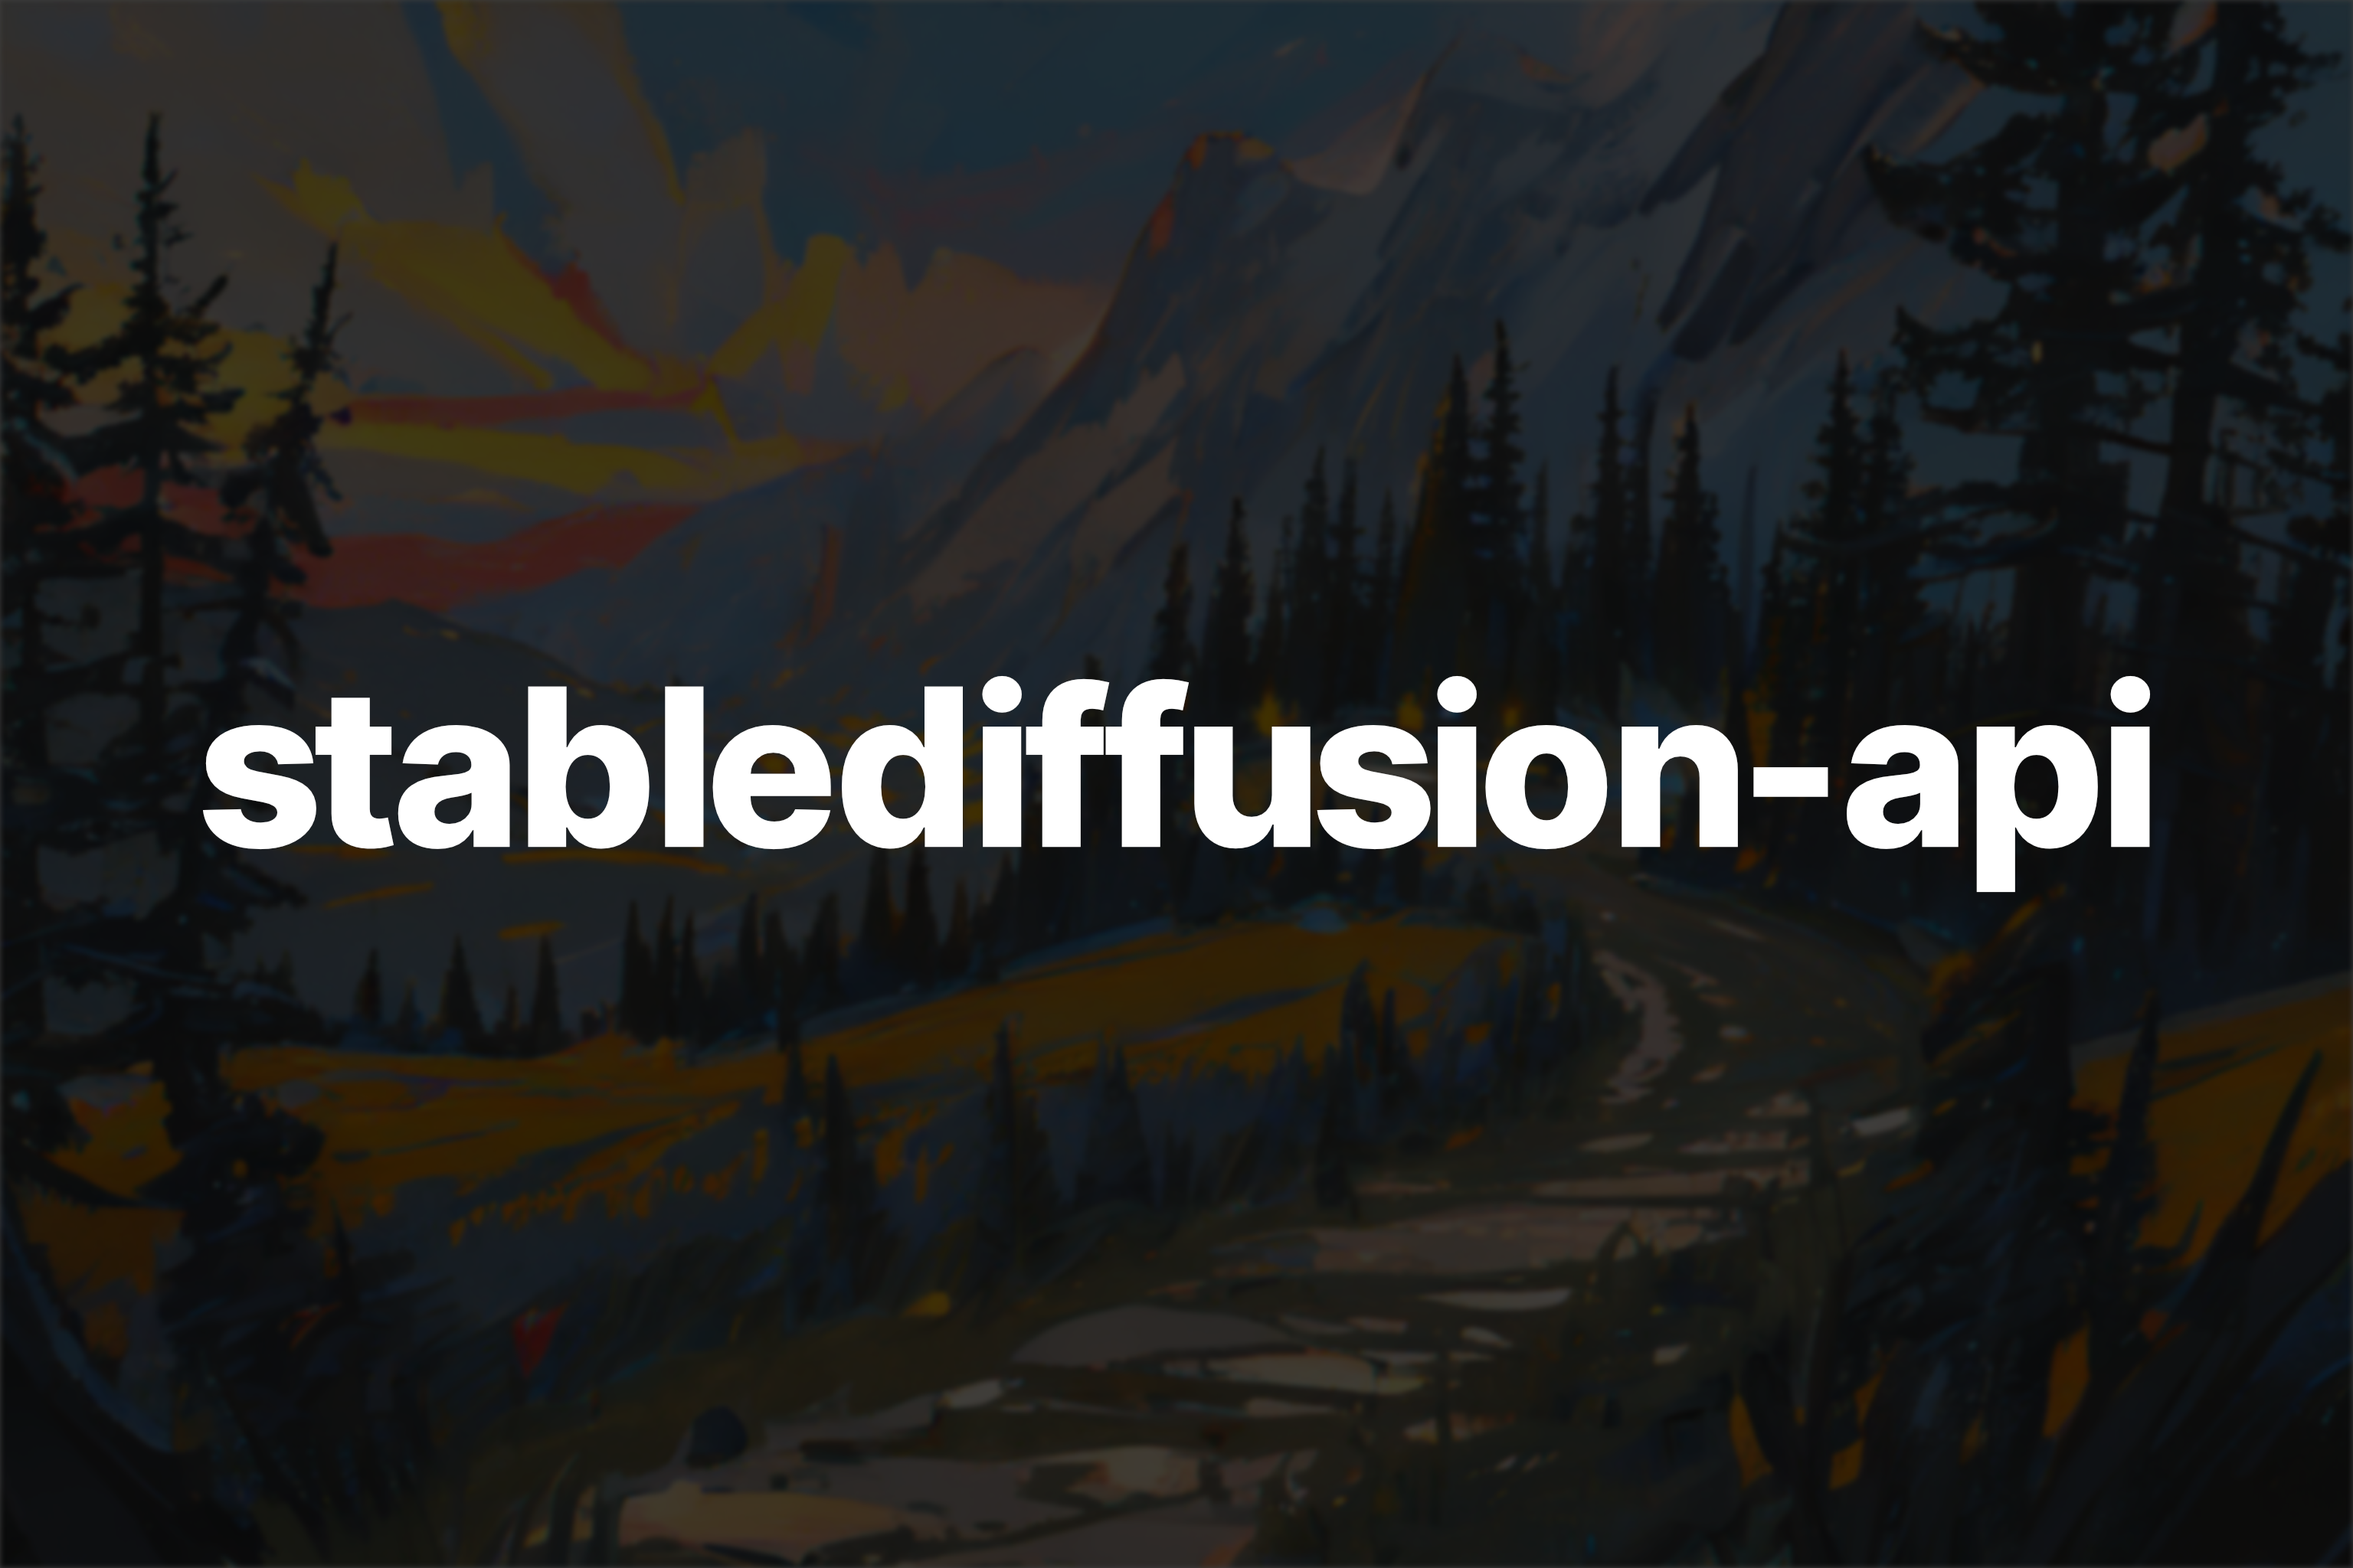
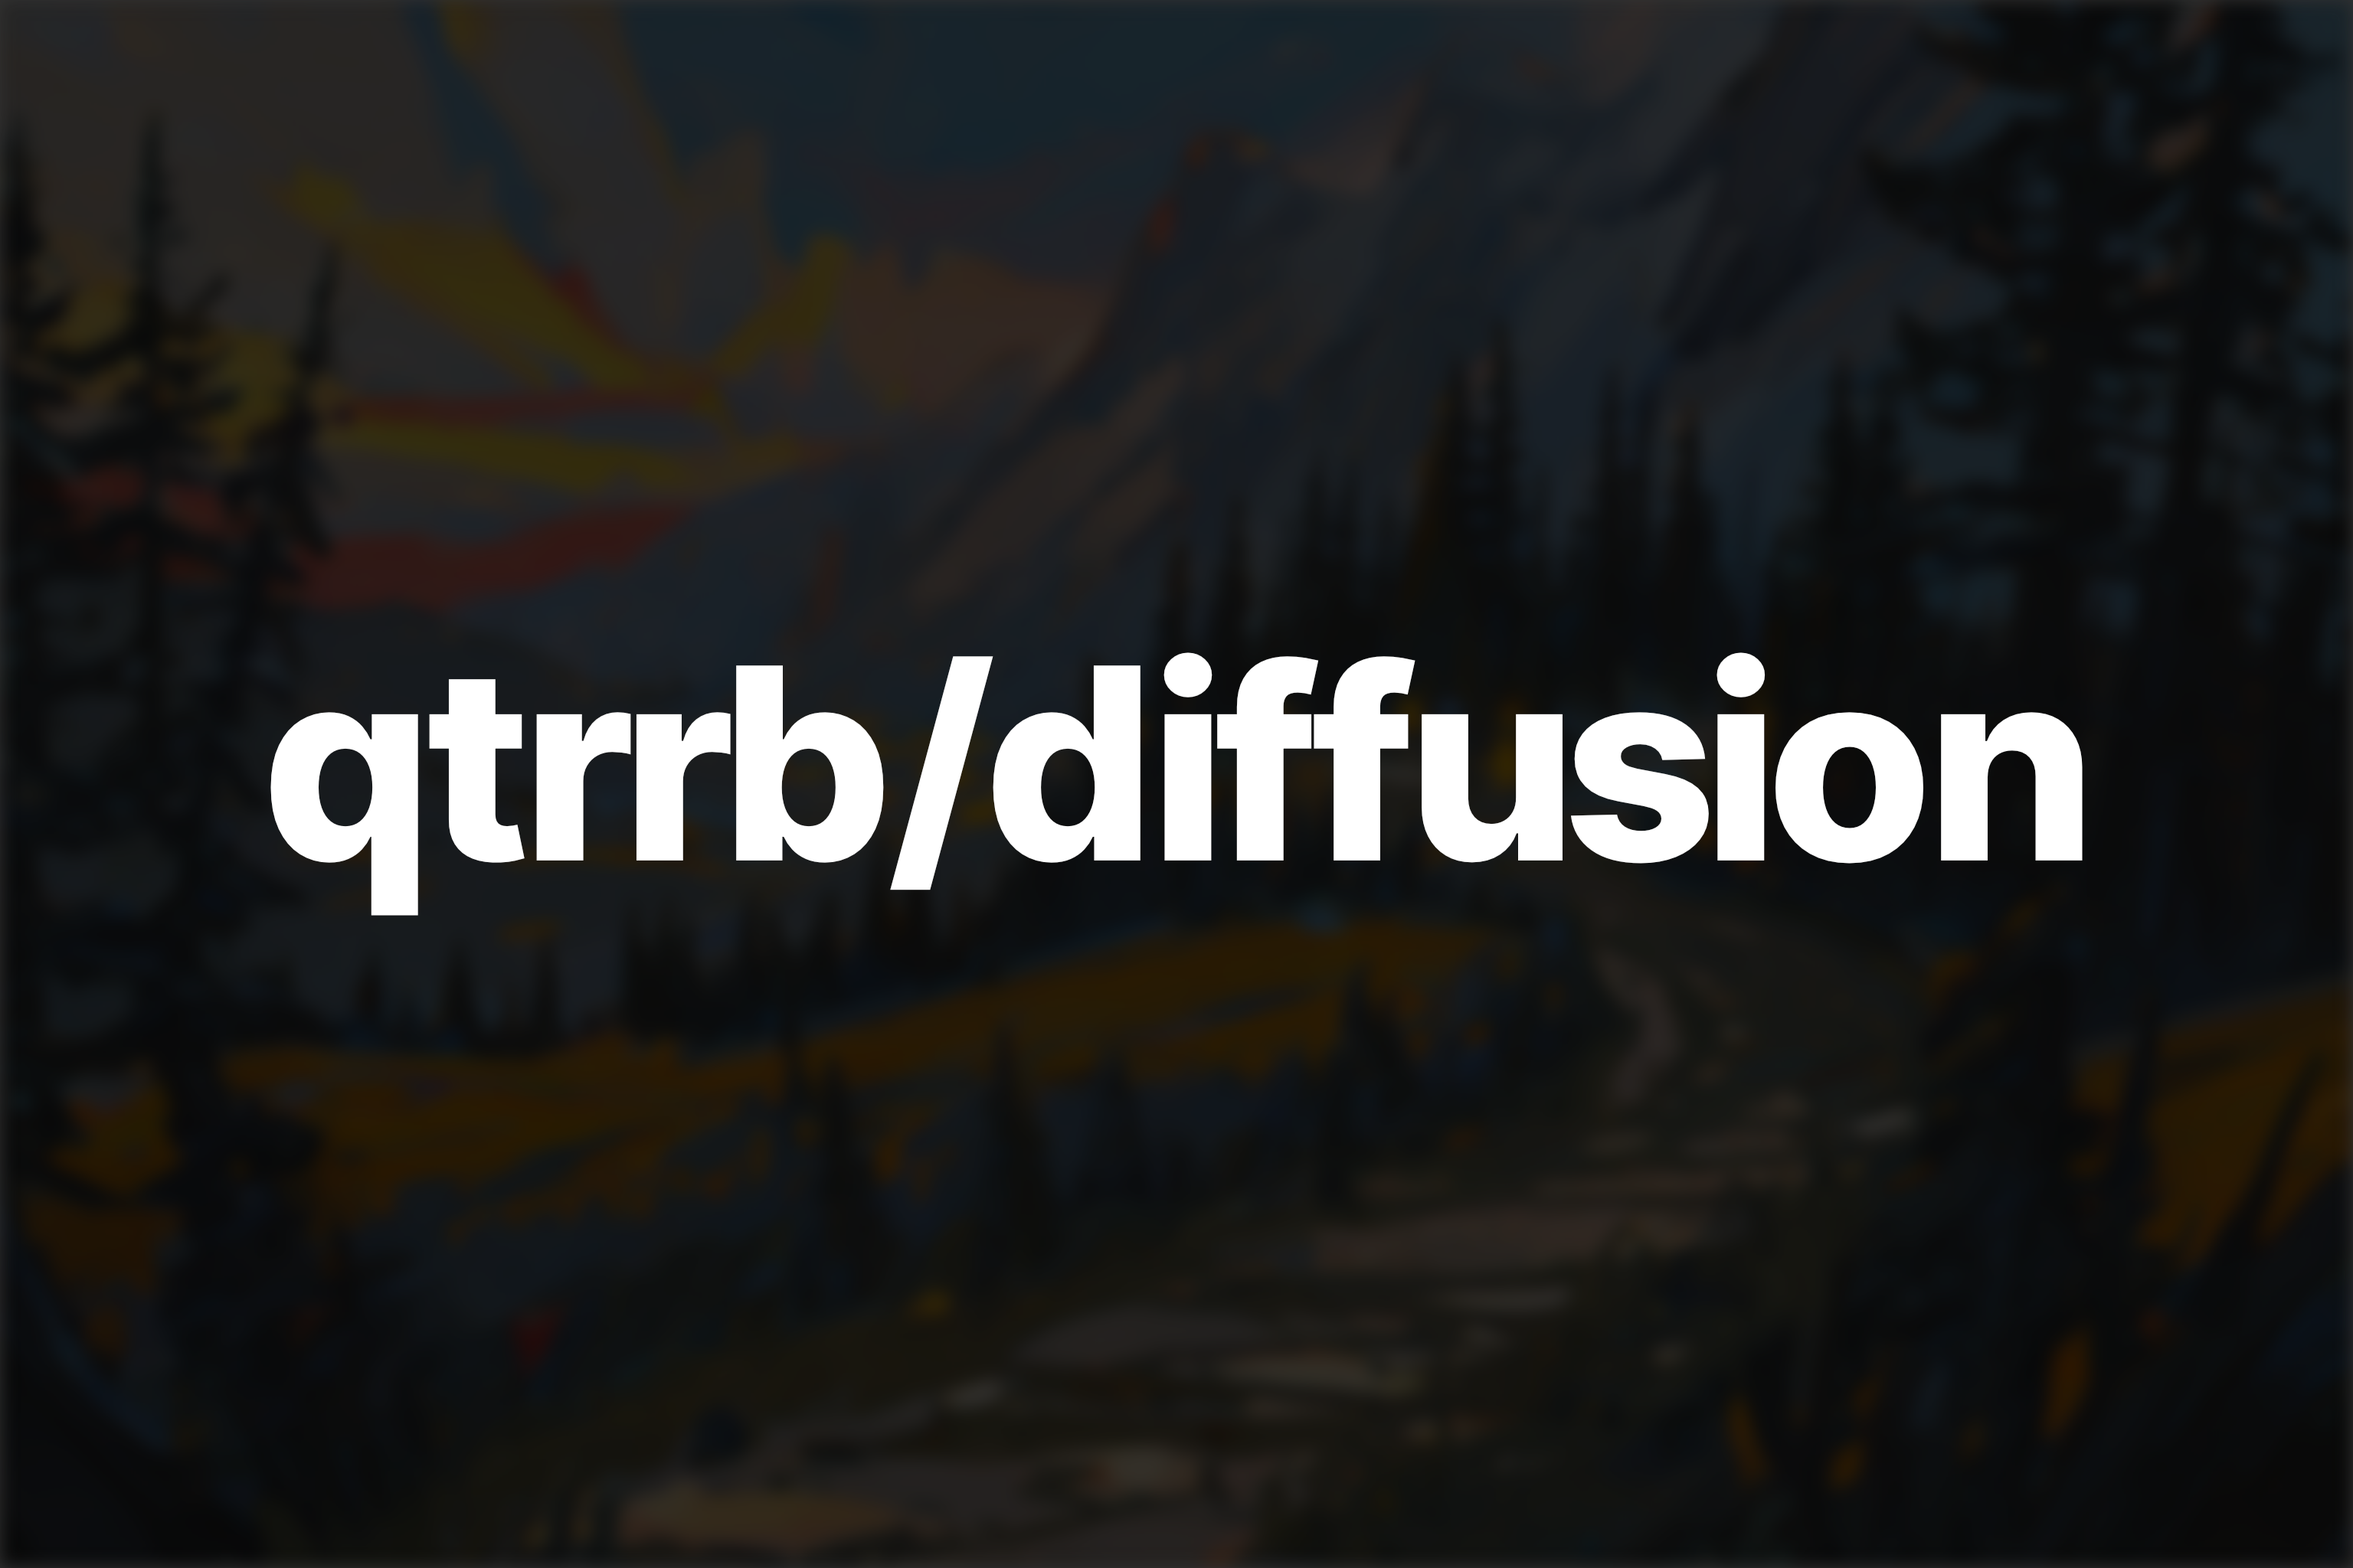
Updated readme, added API details and busy

Changed region(s): [[0.0625, 0.4062, 0.9375, 0.5938]]

diff --git a/diffusion/api/main.py b/diffusion/api/main.py
@@ -8,6 +8,7 @@ from transformers import logging
 
 logging.set_verbosity_error()
 
+busy = False
 app = FastAPI(title="diffusion api")
 router = APIRouter(prefix="/v1/images")
 
@@ -19,7 +20,7 @@ app.add_middleware(
 )
 
 
-@router.get("/")
+@app.get("/")
 def read_root():
     return {"status": "API running"}
 
@@ -27,33 +28,55 @@ def read_root():
 @router.post(
     "/generate",
     response_class=Response,
-    responses={200: {"content": {"image/png": {}}}},
+    responses={
+        200: {"content": {"image/png": {}}},
+        500: {"description": "Error generating image"},
+        429: {"description": "Model is overloaded"},
+    },
 )
 def txt2img(args: TextArgs):
-    try:
-        image_bytes: bytes = generate_txt2img(args=args)
-        torch.cuda.empty_cache()
-        # Return the image in the response
-        return Response(content=image_bytes, media_type="image/png")
-    except Exception as e:
-        print(e)
-        raise HTTPException(status_code=500, detail="Error generating image")
+    global busy
+    if busy:
+        raise HTTPException(status_code=429, detail="Model is overloaded")
+    else:
+        try:
+            busy = True
+            image_bytes: bytes = generate_txt2img(args=args)
+            torch.cuda.empty_cache()
+            busy = False
+            # Return the image in the response
+            return Response(content=image_bytes, media_type="image/png")
+        except Exception as e:
+            busy = False
+            print(e)
+            raise HTTPException(status_code=500, detail="Error generating image")
 
 
 @router.post(
     "/vary",
     response_class=Response,
-    responses={200: {"content": {"image/png": {}}}},
+    responses={
+        200: {"content": {"image/png": {}}},
+        500: {"description": "Error generating image"},
+        429: {"description": "Model is overloaded"},
+    },
 )
 def img2img(args: ImageArgs):
-    try:
-        image_bytes: bytes = generate_img2img(args)
-        torch.cuda.empty_cache()
-        # Return the image in the response
-        return Response(content=image_bytes, media_type="image/png")
-    except Exception as e:
-        print(e)
-        raise HTTPException(status_code=500, detail="Error generating image")
+    global busy
+    if busy:
+        raise HTTPException(status_code=429, detail="Model is overloaded")
+    else:
+        try:
+            busy = True
+            image_bytes: bytes = generate_img2img(args)
+            torch.cuda.empty_cache()
+            busy = False
+            # Return the image in the response
+            return Response(content=image_bytes, media_type="image/png")
+        except Exception as e:
+            busy = True
+            print(e)
+            raise HTTPException(status_code=500, detail="Error generating image")
 
 
 app.include_router(router)

diff --git a/README.md b/README.md
@@ -1,31 +1,29 @@
-# stablediffusion-api
+# qtrrb/diffusion
 
-A fork of [stable diffusion](https://github.com/Stability-AI/stablediffusion) that adds an API and optimizations/features
+A fork of [stable diffusion](https://github.com/Stability-AI/stablediffusion) that adds optimizations, features and an API
 
 ![hero](.github/assets/banner.png)
 
-## Roadmap
+> **Warning** This project is heavily experimental and is subject to change.
 
-> **Warning**
->
-> This project is heavily experimental and is subject to changes.
+## Main Features
 
-- [ ] Upscaling
-- [ ] Code refactoring
-- [ ] ...
-- [x] ~~LoRA support~~
-- [x] ~~Image to Image API~~
-- [x] ~~VAE loading~~
-- [x] ~~Safetensors Support~~
-- [x] ~~Default FP16 Models~~
-- [x] ~~Text to Image API~~
+- Upscaling
+- A1111 LoRA support
+- Textual inversion support
+- VAE loading
+- K-Diffusion schedulers
+- Safetensors support
+- Optimizations (fp16, Attention slicing)
+- Text to Image API
+- Image to Image API
 
 ## Usage
 
 - Clone this repository
 
 ```bash
-git clone https://github.com/qtrrb/stablediffusion-api
+git clone https://github.com/qtrrb/diffusion
 ```
 
 - Initialize a new virtual environment
@@ -42,14 +40,8 @@ python -m venv .env
 pip install -r requirements.txt
 ```
 
-- Run the project with
+- Run the API with
 
 ```bash
-python main.py
-```
-
-or
-
-```bash
-uvicorn main:app --reload
+python -m diffusion
 ```
